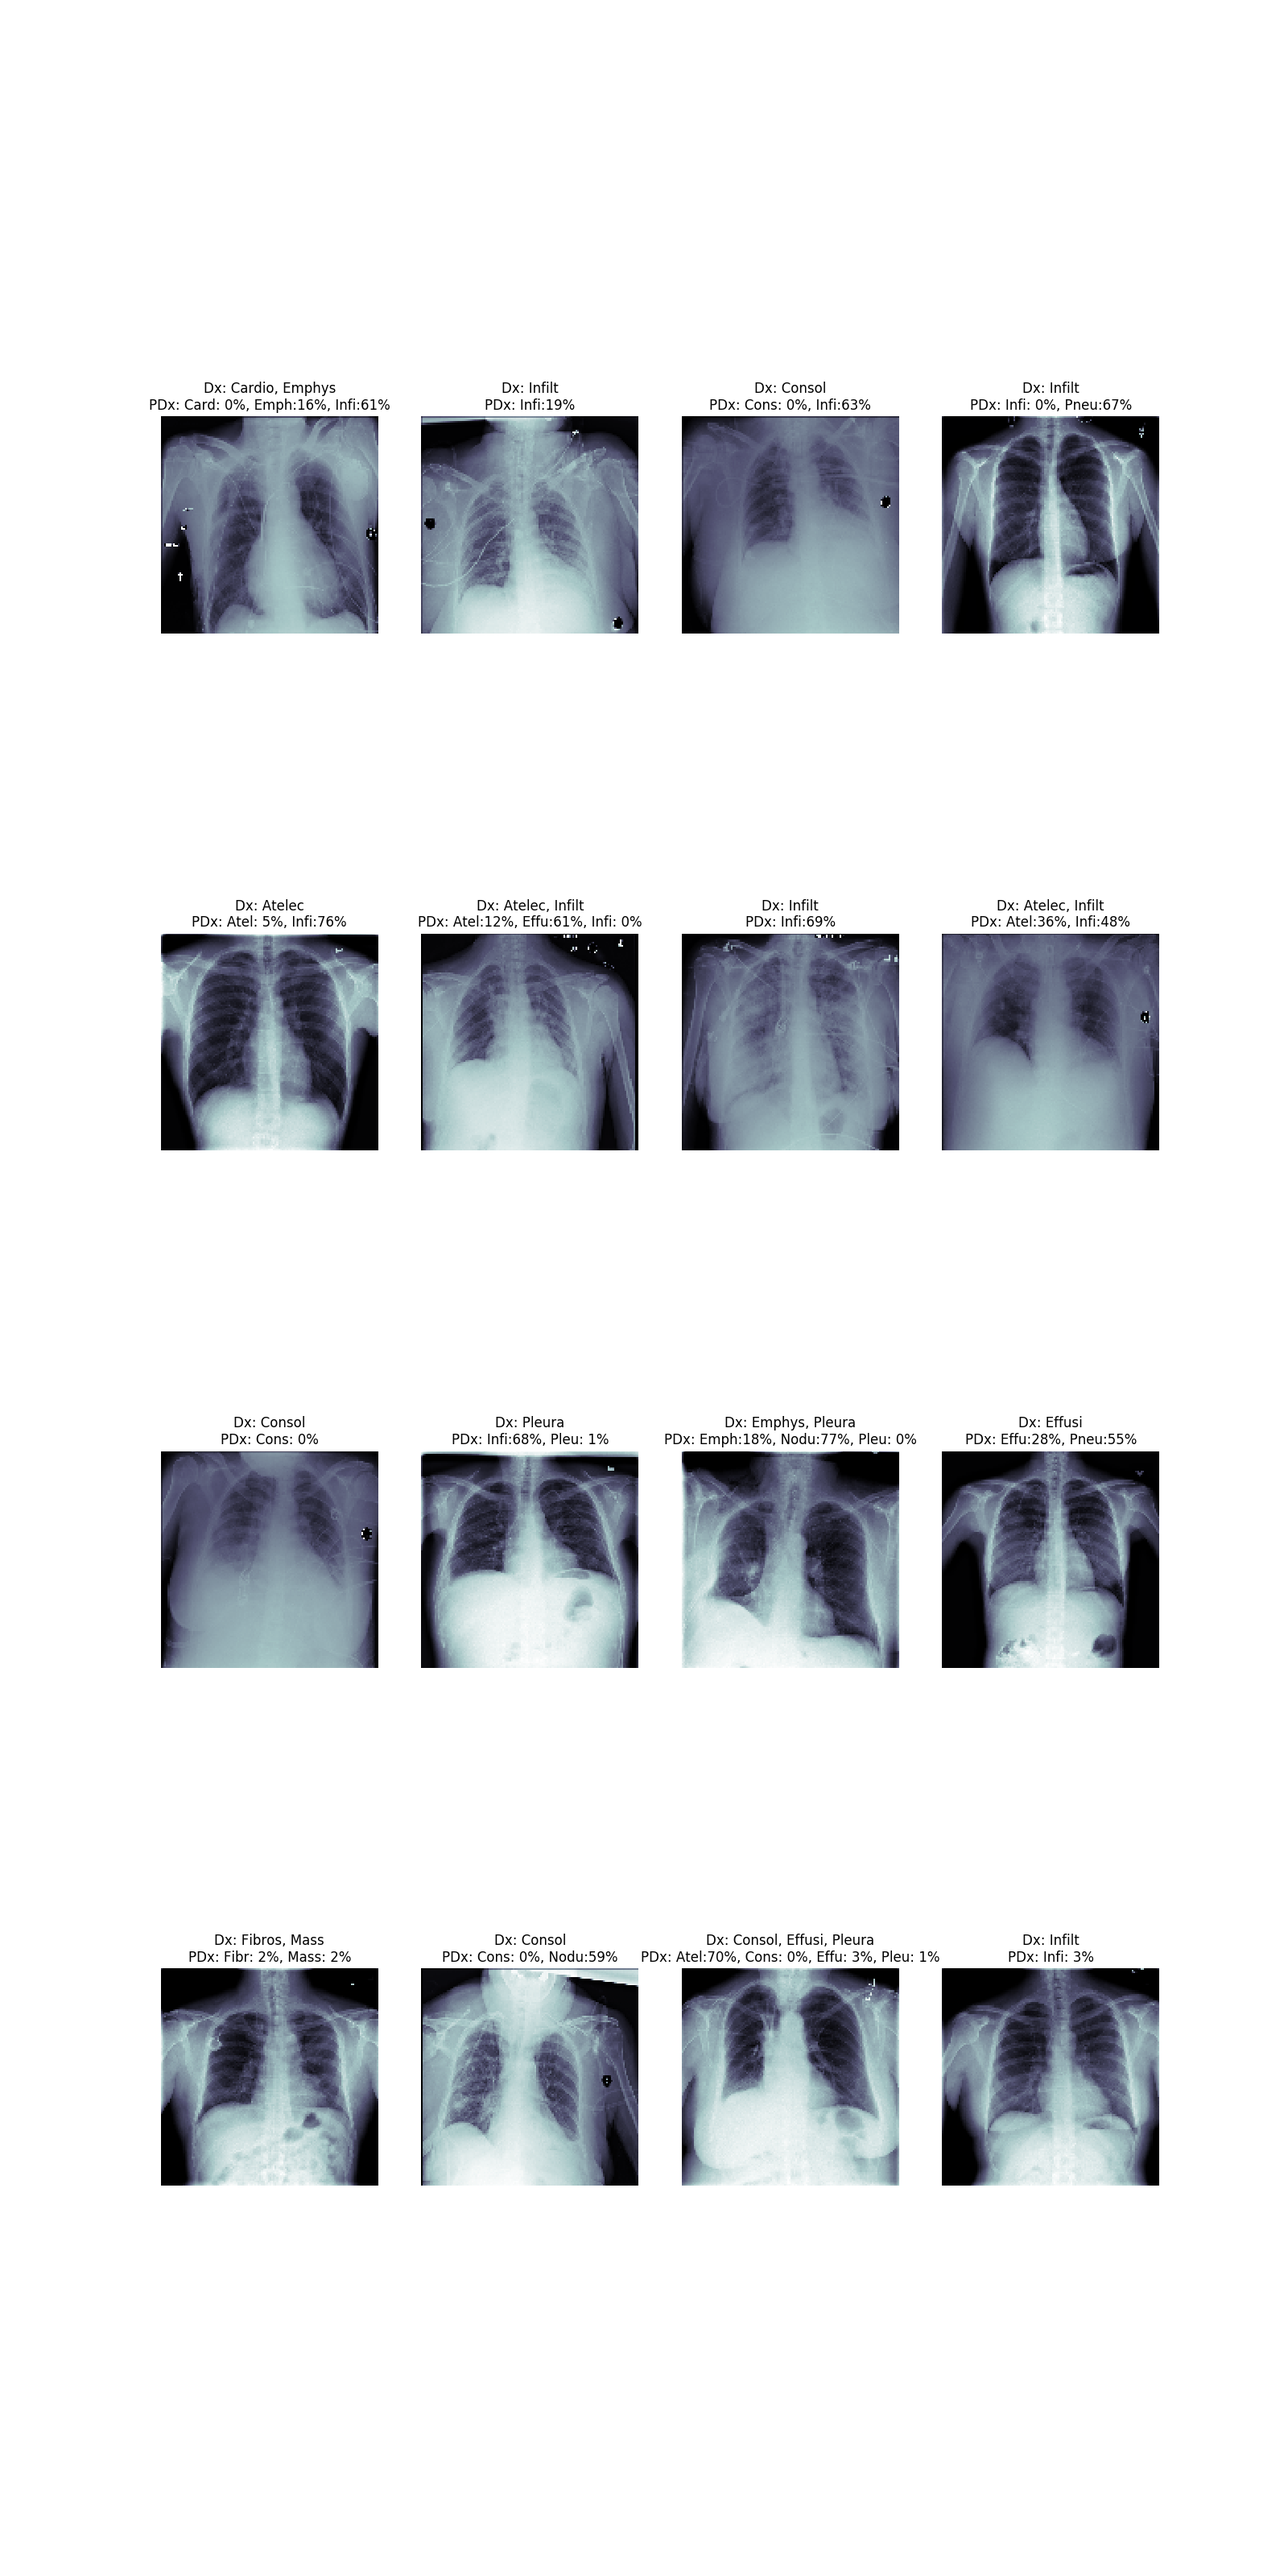
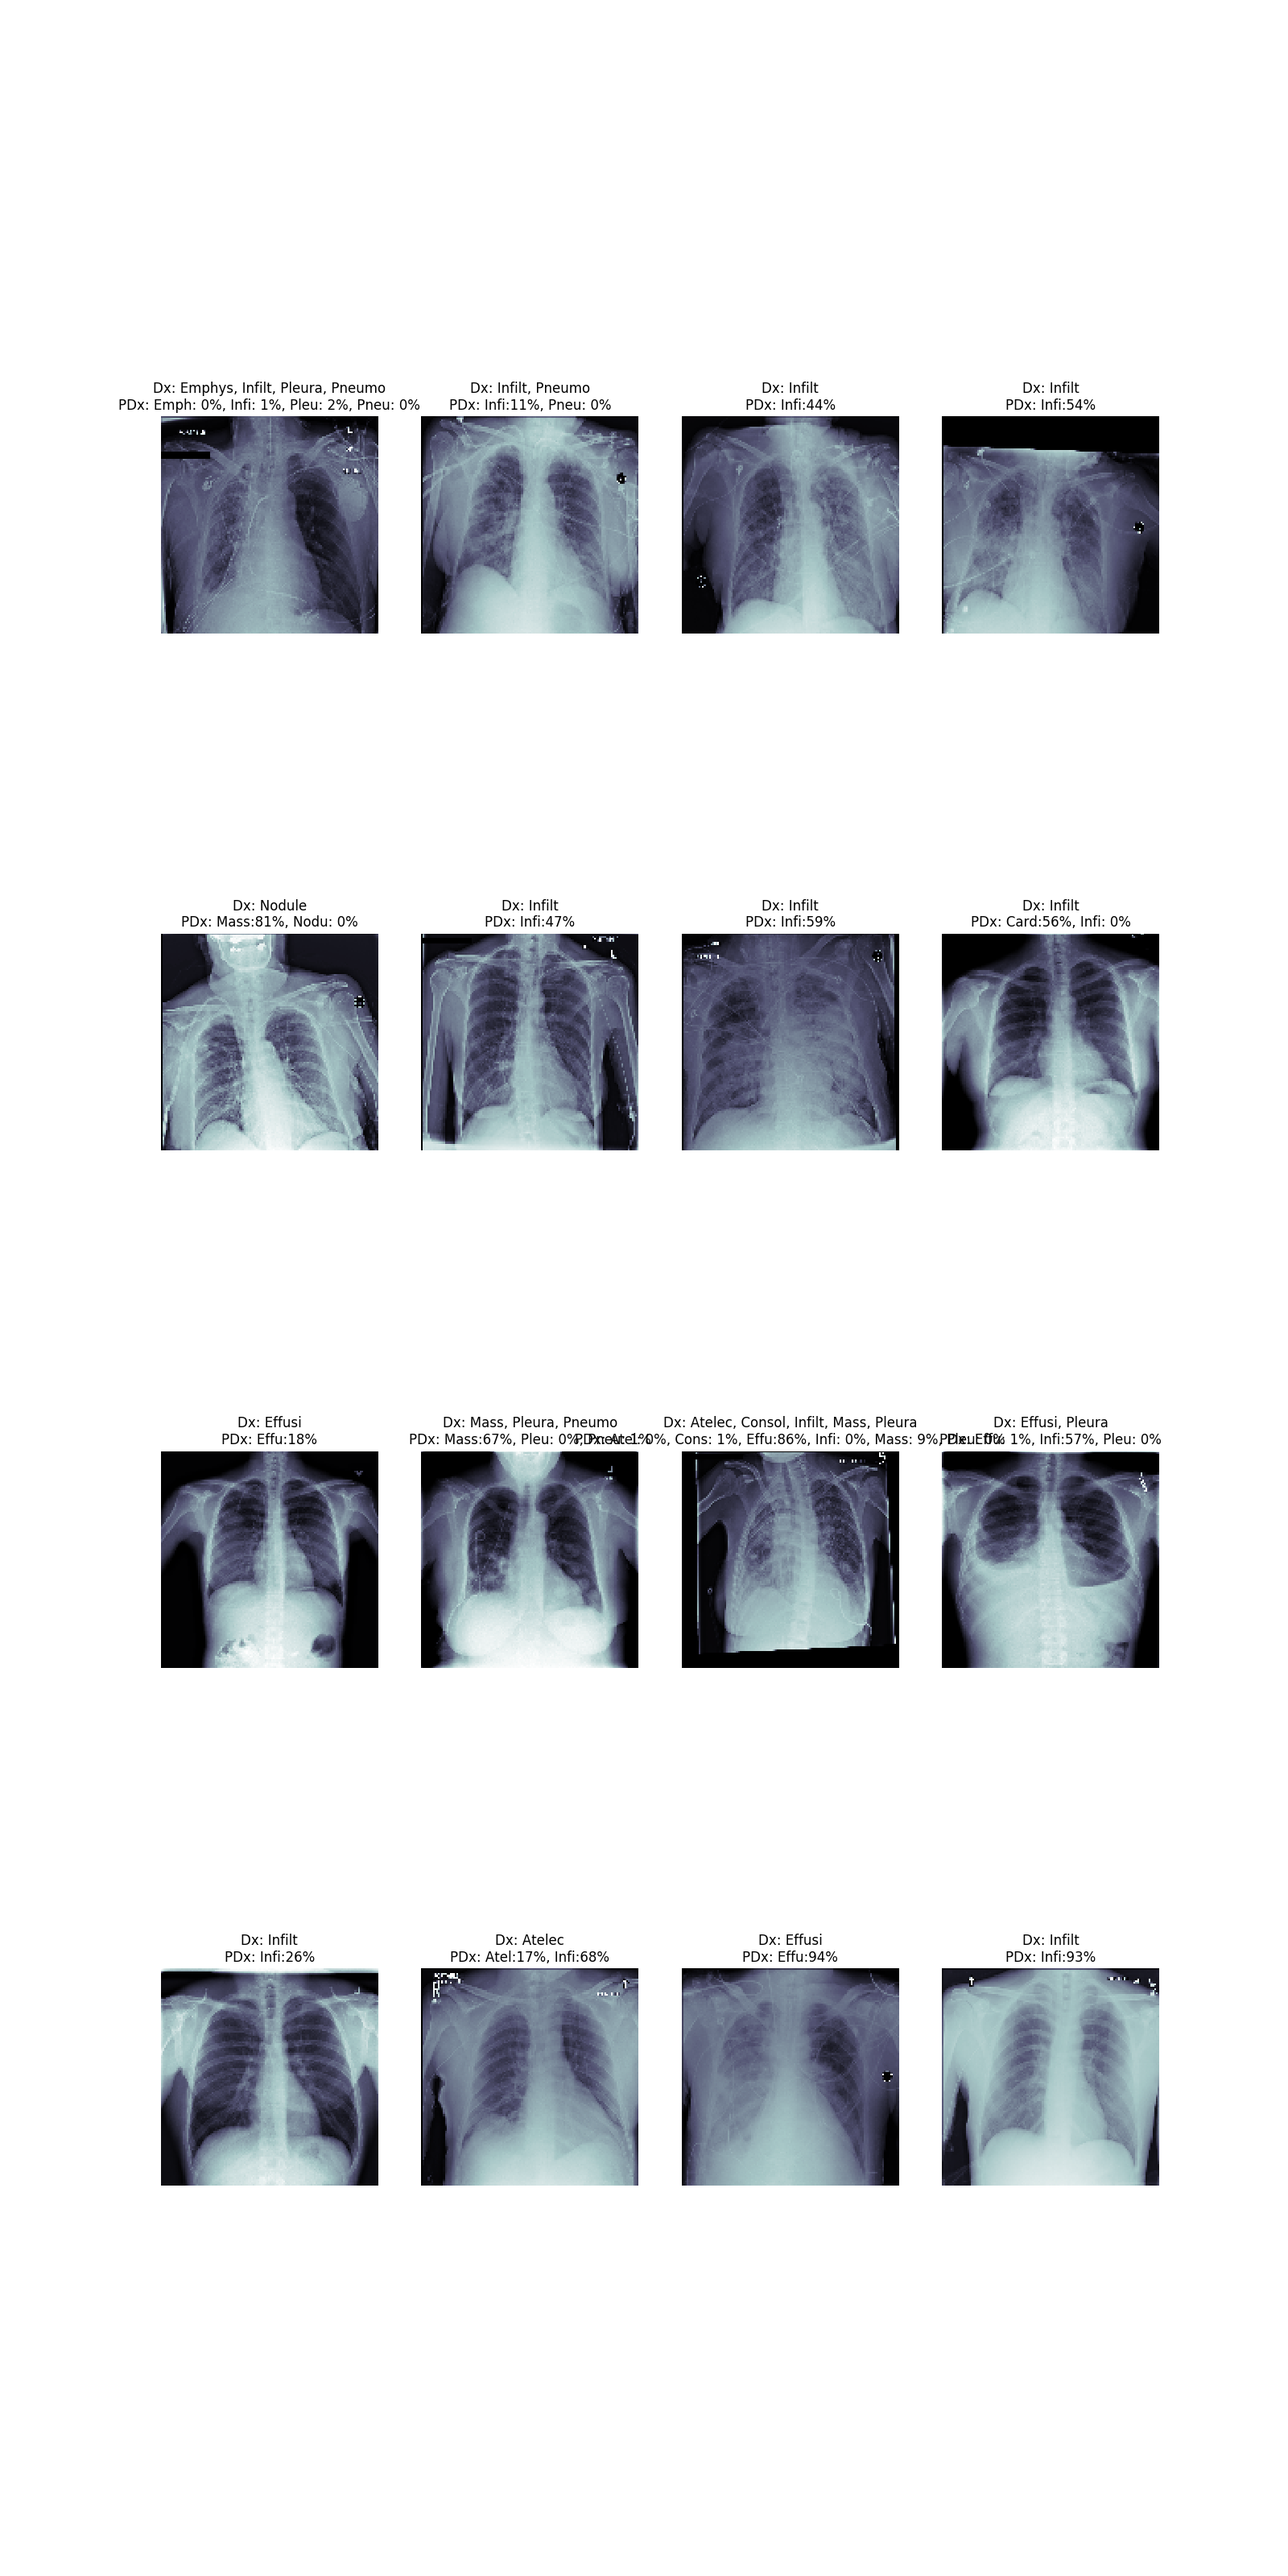
wip

diff --git a/one_gpu_nih.py b/one_gpu_nih.py
@@ -39,7 +39,7 @@ df_sample = dataframe.sample(frac = 0.50)
 deasises = list(dataframe["Finding Labels"].unique())
 
 #train data set
-df_sample_train = df_sample.sample(frac = 0.30)
+df_sample_train = df_sample.sample(frac = 0.70)
 # isolated for the test
 df_sample_test = dataframe.drop(df_sample.index)
 
@@ -121,7 +121,7 @@ model.summary()
 
 history = model.fit(X_train, y_train, epochs = 100, batch_size=64, verbose=1, validation_data=(X_test, y_test), shuffle=True)
 
-model.save('../nih_sample/nih_model_50_30.h5')
+model.save('../nih_sample/nih_model_50_70.h5')
 def history_plot(history):
     plt.plot(history.history['acc'])
     plt.plot(history.history['val_acc'])
@@ -150,7 +150,7 @@ for (idx, c_label) in enumerate(all_labels):
 c_ax.legend()
 c_ax.set_xlabel('False Positive Rate')
 c_ax.set_ylabel('True Positive Rate')
-fig.savefig('trained_net_50_30.png')
+fig.savefig('trained_net_50_70.png')
 
 
 sickest_idx = np.argsort(np.sum(y_test, 1)<1)
@@ -165,4 +165,4 @@ for (idx, c_ax) in zip(sickest_idx, m_axs.flatten()):
                              if (n_score>0.5) or (p_score>0.5)]
     c_ax.set_title('Dx: '+', '.join(stat_str)+'\nPDx: '+', '.join(pred_str))
     c_ax.axis('off')
-fig.savefig('trained_img_predictions_50_30.png')
+fig.savefig('trained_img_predictions_50_70.png')

diff --git a/eval.py b/eval.py
@@ -98,11 +98,11 @@ X_train = images_train.reshape(len(X_train), 128, 128, 1)
 X_test = images_test.reshape(len(X_test), 128, 128, 1)
 X_train.astype('float32')
 
-#from keras.models import load_model
+from keras.models import load_model
 
-#model = load_model('../nih_sample/nih_model_70.h5')
+model = load_model('../nih_sample/nih_model_50_70.h5')
 
-#score, acc = model.evaluate(X_test, y_test, batch_size=64)
+score, acc = model.evaluate(X_test, y_test, batch_size=64)
 
-#print('Score', score)
-#print('Accuracy', acc)
+print('Score', score)
+print('Accuracy', acc)
